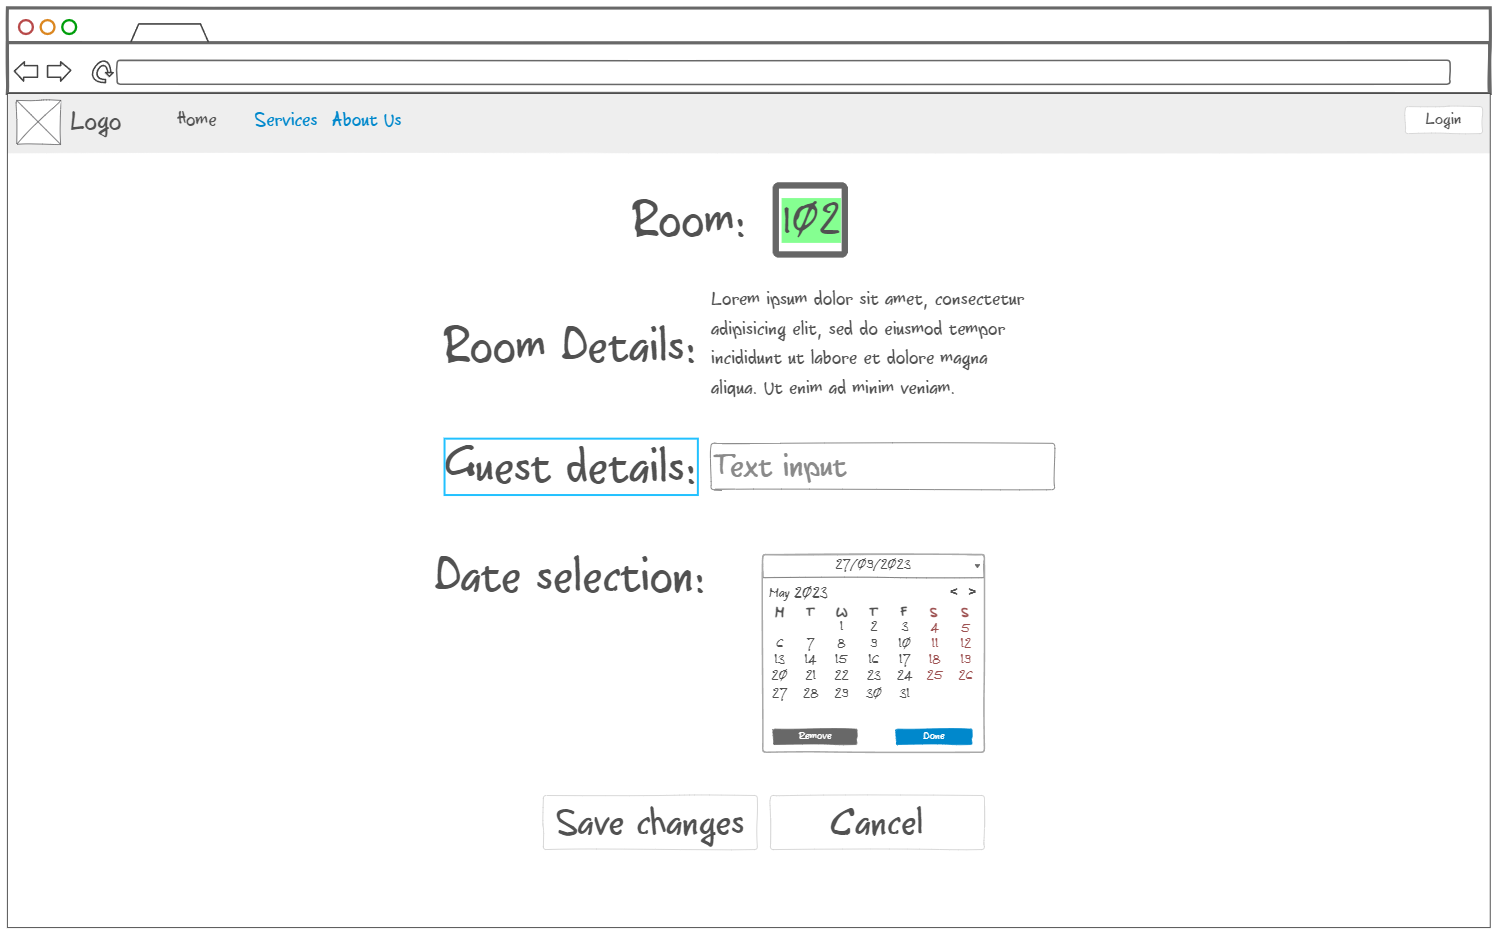
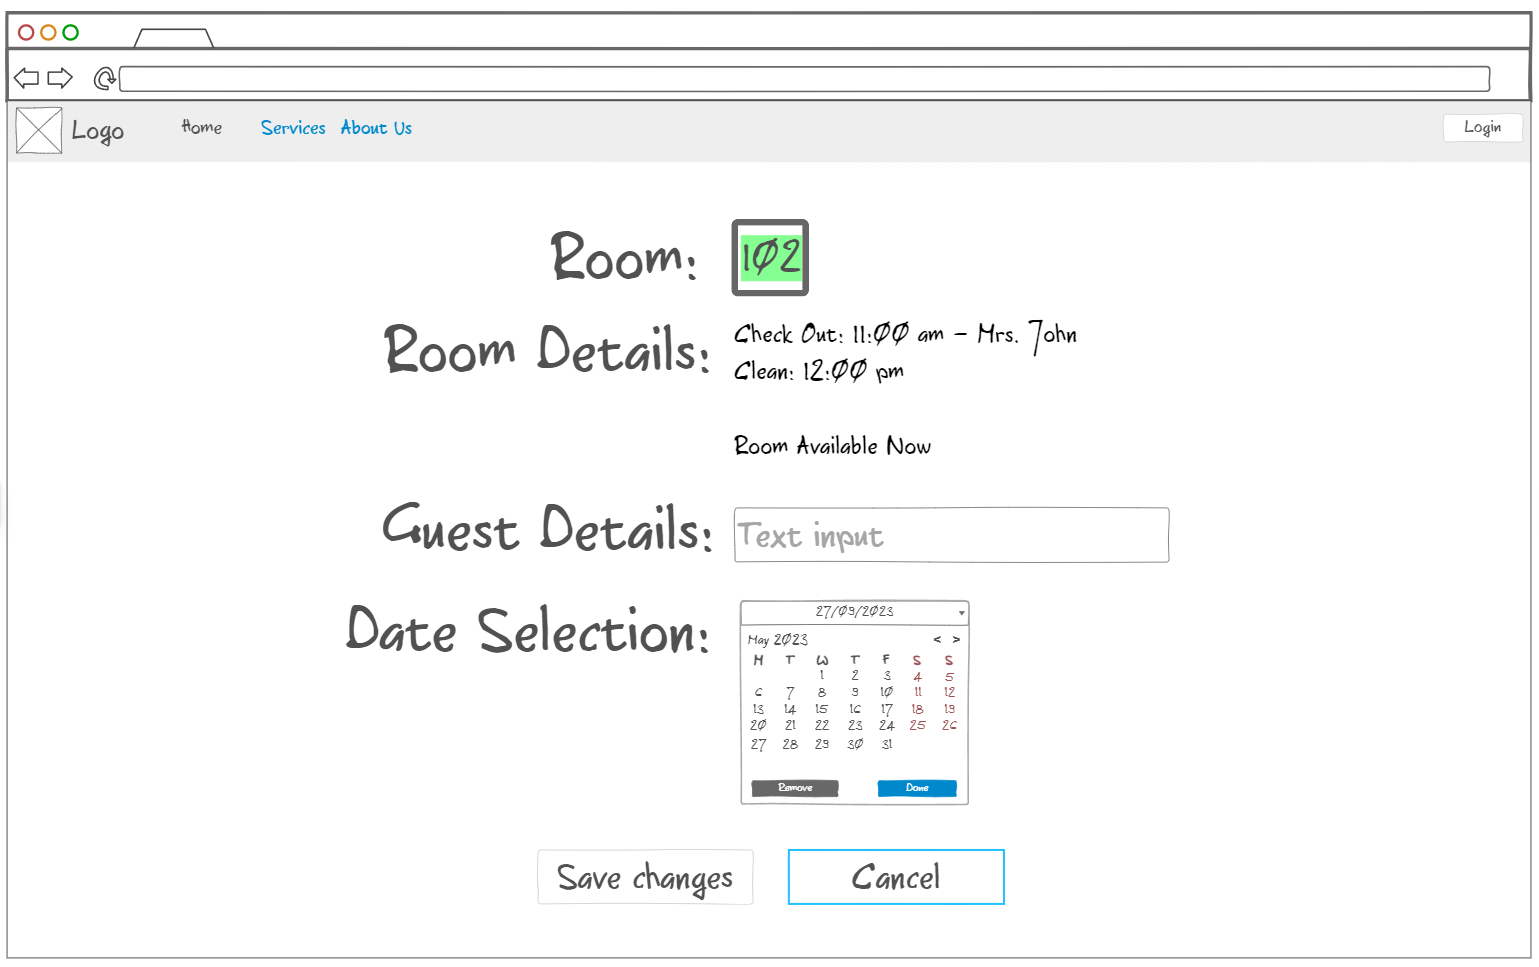
Remove duplicate user story
Remove duplicate user story, update description and wireframe image

diff --git a/user_stories/user_story_02_make_room_reservation.md b/user_stories/user_story_02_make_room_reservation.md
@@ -15,6 +15,7 @@
 
 ## Description:
 Description-v1: The users (hotel staffs) will be able to make room reservation for guests to secure their bookings
+Description-v2: The users (hotel staffs) will be able to check guests into their room efficiently, saving necessary information like their identification and payment details
 
 
 ## Tasks, see chapter 4.
